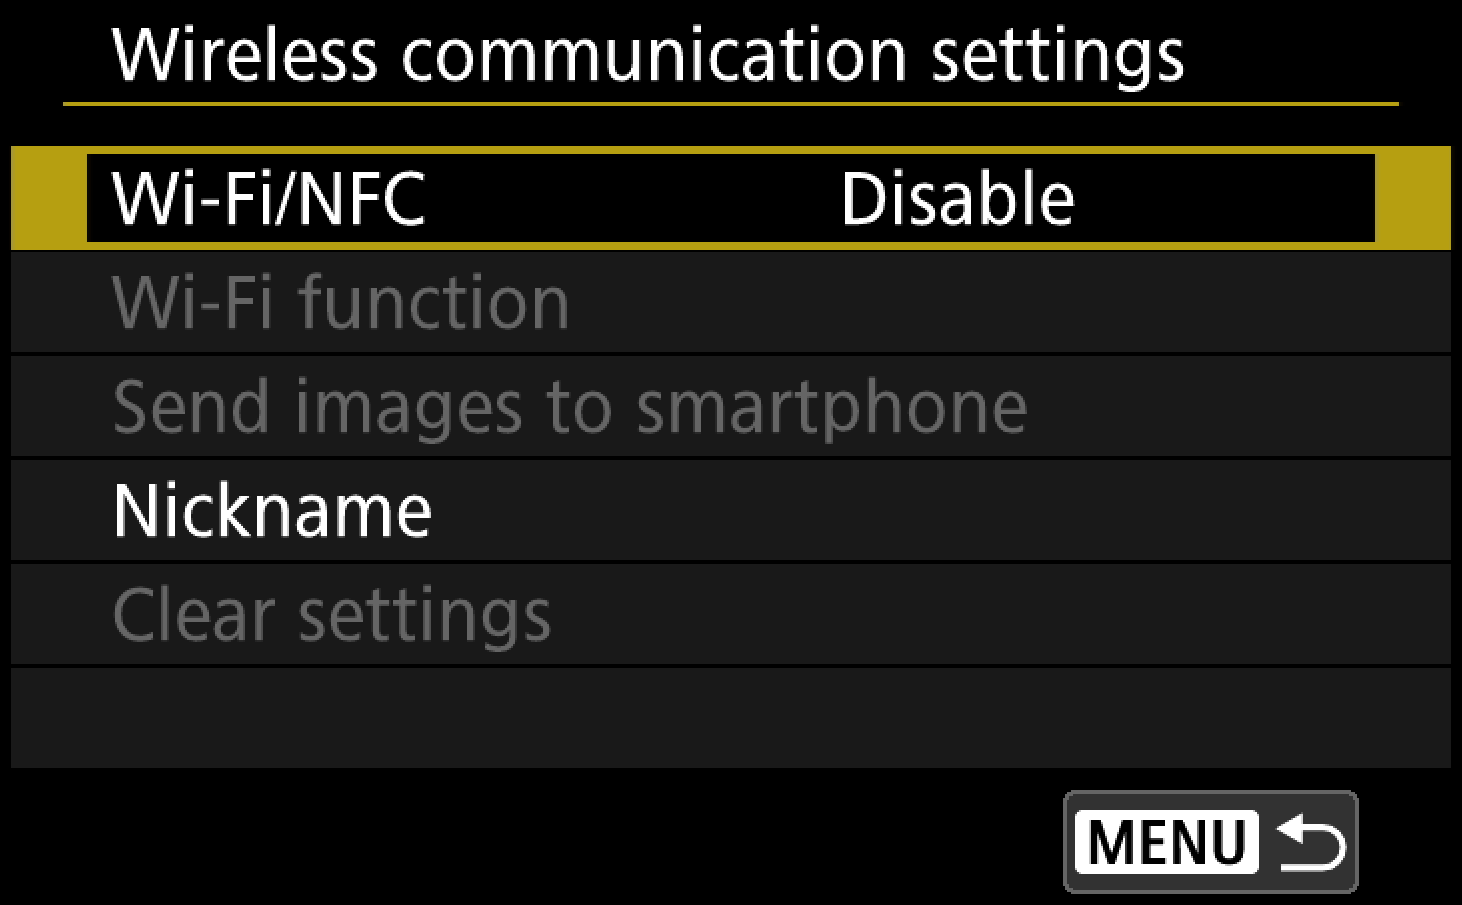
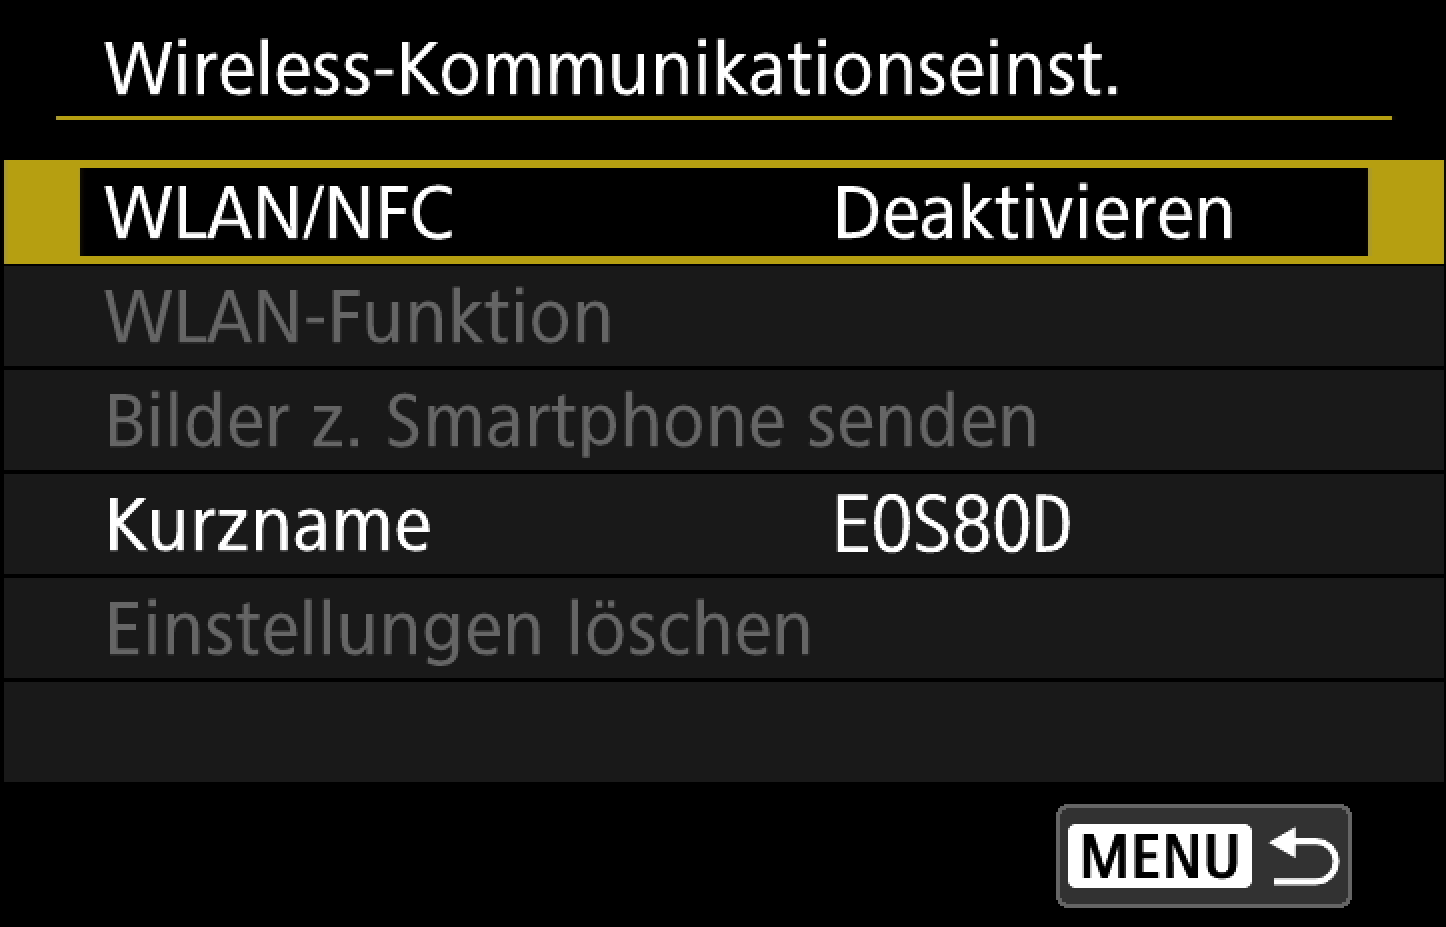
CBL-777: Add German camera screenshots to guides

Changed region(s): [[0.0, 0.0309, 1.0, 0.9901]]

diff --git a/de.lproj/HelpCentre/ConnectionGuides/SonyGuide/index.html b/de.lproj/HelpCentre/ConnectionGuides/SonyGuide/index.html
@@ -10,14 +10,14 @@
 <body>
 <div class="figure-box"><b>Wichtig:</b> Damit Cascable sich mit Ihrer WLAN-fähigen Sony-Kamera verbinden kann, soll auf der Kamera die <br><br>
 <b><img class="retina" src="sony-smart-remote-96.png" alt="Smart Remote"><br>
-Smart Remote Control</b> <br><br>
+Smart-Fernbedienung</b> <br><br>
 App installiert sein.</div>
-<p>Um die <em>Smart Remote Control</em> App auf Ihre Kamera zu installieren und eine Verbindung zu Cascable herzustellen müssen Sie noch einige Schritte durchführen, wie in der nachfolgenden Anleitung beschrieben.</p>
+<p>Um die <em>Smart-Fernbedienung</em> App auf Ihre Kamera zu installieren und eine Verbindung zu Cascable herzustellen müssen Sie noch einige Schritte durchführen, wie in der nachfolgenden Anleitung beschrieben.</p>
 <h3>Bevor wir loslegen</h3>
 <ol>
 	<li>Prüfen Sie, ob Ihre Kamera <a href="#" onclick='showPageWithIdentifier("se.cascable.client.help.supported-cameras");'>von Cascable unterstützt wird</a>.</li>
 	<li>Prüfen Sie, ob die Firmware-Version Ihrer Kamera aktuell ist.</li>
-	<li>Prüfen Sie, ob die <em>Smart Remote Control</em> App auf Ihrer Kamera installiert ist und aktualisieren Sie diese bei Bedarf.</li>
+	<li>Prüfen Sie, ob die <em>Smart-Fernbedienung</em> App auf Ihrer Kamera installiert ist und aktualisieren Sie diese bei Bedarf.</li>
 	<li>Prüfen Sie, ob Sie die neueste Version von Cascable haben.</li>
 </ol>
 
@@ -30,39 +30,39 @@ App installiert sein.</div>
  
 <hr>
 
-<h3>Smart Remote Control installieren</h3>
+<h3>Smart-Fernbedienung installieren</h3>
 <p><b>Hinweis:</b> <em>Um PlayMemories Camera Apps herunterzuladen, benötigen Sie ein Benutzerkonto bei Sony.</em></p>
-<p>Damit Cascable Daten mit Ihrer Kamera austauschen kann, müssen Sie Sony <em>Smart Remote Control</em> App auf die Kamera installieren.</p>
+<p>Damit Cascable Daten mit Ihrer Kamera austauschen kann, müssen Sie Sony <em>Smart-Fernbedienung</em> App auf die Kamera installieren.</p>
 <ol>
-	<li>Drücken Sie <b>Menu</b> und wechseln Sie zu <b><img class="retina" src="../../common/themed-images/light/sony-apps.png" alt="Anwendungen">Anwendungen</b> > <b> Liste der Anwendungen</b> > <b>PlayMemories Camera-Anwendungen</b>.</li>
+	<li>Drücken Sie <b>Menu</b> und wechseln Sie zu <b><img class="retina" src="../../common/themed-images/light/sony-apps.png" alt="Applikationen">Applikationen</b> > <b>Applikationsliste</b> > <b>PlayMemories Camera Apps</b>.</li>
 
-	<p class="center"> <img class="retina" src="sony-applist.png" alt="Programmliste" style="max-width: 90%;"></p>
+	<p class="center"> <img class="retina" src="sony-applist.png" alt="Applikationsliste" style="max-width: 90%;"></p>
 	<p class="center"> <img class="retina" src="sony-playmemories.png" alt="Play Memories Camera Apps" style="max-width: 90%;"></p>
 
 	<li>Ihre Kamera wird nach einem WLAN-Netzwerk suchen. Besteht noch keine Verbindung, so werden Sie gebeten, sich mit einem drahtlosen Zugangspunkt zu verbinden.</li>
-	<li>Wenn sich <em>PlayMemories Camera Apps</em> öffnet, wählen und installieren Sie die <b>Smart Remote Control</b> App.</li>
+	<li>Wenn sich <em>PlayMemories Camera Apps</em> öffnet, wählen und installieren Sie die <b>Smart-Fernbedienung</b> App.</li>
 </ol>
 
 <hr>
 
-<h3>Smart Remote Control-Version prüfen</h3>
-<p>Falls <em>Smart Remote Control</em> bereits auf Ihrer Kamera installiert ist, prüfen Sie, ob sie ggf. aktualisiert werden muss.<p>
+<h3>Smart-Fernbedienung-Version prüfen</h3>
+<p>Falls <em>Smart-Fernbedienung</em> bereits auf Ihrer Kamera installiert ist, prüfen Sie, ob sie ggf. aktualisiert werden muss.<p>
 <ol>
-	<li>Drücken Sie <b>Menu</b> und wechseln Sie zu <b><img class="retina" src="../../common/themed-images/light/sony-apps.png" alt="Anwendungen">Anwendungen</b> > <b> Liste der Anwendungen</b> > <b>PlayMemories Camera-Anwendungen</b>.</li>
+	<li>Drücken Sie <b>Menu</b> und wechseln Sie zu <b><img class="retina" src="../../common/themed-images/light/sony-apps.png" alt="Applikationen">Applikationen</b> > <b>Applikationsliste</b> > <b>PlayMemories Camera Apps</b>.</li>
 	<li>Ihre Kamera wird nach einem WLAN-Netzwerk suchen. Besteht noch keine Verbindung, so werden Sie gebeten, sich mit einem drahtlosen Zugangspunkt zu verbinden.</li>
-	<li>Wenn sich <em>PlayMemories Camera Apps</em> öffnet, wechseln Sie in den Reiter <b>My APP</b>, wählen Sie die <b>Smart Remote Control</b> App und prüfen Sie, ob die installierte Version aktuell ist.</li>
+	<li>Wenn sich <em>PlayMemories Camera Apps</em> öffnet, wechseln Sie in den Reiter <b>My APP</b>, wählen Sie die <b>Smart-Fernbedienung</b> App und prüfen Sie, ob die installierte Version aktuell ist.</li>
 </ol>
 
 <hr>
 
 <h3>Cascable mit Ihrer Kamera verbinden</h3>
 <ol>
-	<li>Drücken Sie <b>Menu</b> und wechseln Sie zu <b><img class="retina" src="../../common/themed-images/light/sony-apps.png" alt="Anwendungen">Anwendungen</b> > <b> Liste der Anwendungen</b> > <b><img class="retina" src="sony-smart-remote.png" alt="Smart Remote Control">Smart Remote Control</b>.</li>
-	<p class="center"> <img class="retina" src="sony-applist.png" alt="Programmliste" style="max-width: 90%;"></p>
-	<p class="center"> <img class="retina" src="sony-smartremote.png" alt="Smart Remote Control" style="max-width: 90%;"></p>
-	<li>Wenn <em>Smart Remote Control</em> startet, drücken Sie <b><img class="retina" src="../../common/themed-images/light/sony-delete.png" alt="Löschen">Delete</b> um eine <em>passwortgeschützte Verbindung herzustellen</em>.</li>
+	<li>Drücken Sie <b>Menu</b> und wechseln Sie zu <b><img class="retina" src="../../common/themed-images/light/sony-apps.png" alt="Applikationen">Applikationen</b> > <b>Applikationsliste</b> > <b><img class="retina" src="sony-smart-remote.png" alt="Smart-Fernbedienung">Smart-Fernbedienung</b>.</li>
+	<p class="center"> <img class="retina" src="sony-applist.png" alt="Applikationsliste" style="max-width: 90%;"></p>
+	<p class="center"> <img class="retina" src="sony-smartremote.png" alt="Smart-Fernbedienung" style="max-width: 90%;"></p>
+	<li>Wenn <em>Smart-Fernbedienung</em> startet, drücken Sie <b><img class="retina" src="../../common/themed-images/light/sony-delete.png" alt="Löschen">Delete</b> um eine <em>Per Passwort verbinden</em>.</li>
 	<li>Öffnen Sie auf Ihrem iOS-Gerät <b>Einstellungen</b> > <b>WLAN</b>, wählen Sie Ihr WLAN-Netzwerk aus und geben Sie das Passwort ein, das auf dem Bildschirm Ihrer Kamera angezeigt wird.</li>
-	<li>Auf dem Kameradisplay wird die Meldung <em>Verbinden …</em> angezeigt.</li>
+	<li>Auf dem Kameradisplay wird die Meldung <em>Verbindet…</em> angezeigt.</li>
 	<p class="center"> <img class="retina" src="sony-connecting.png" alt="Verbindungsdialog" style="max-width: 90%;"></p>
 	<li>Starten Sie <b>Cascable</b> auf Ihrem iOS-Gerät. Die App wird Ihre Kamera automatisch erkennen und eine Verbindung herstellen.</li>
 </ol>

diff --git a/de.lproj/HelpCentre/ConnectionGuides/FujiGuide/index.html b/de.lproj/HelpCentre/ConnectionGuides/FujiGuide/index.html
@@ -23,9 +23,9 @@
 <p>Standardmäßig passen Fujifilm Kameras die Größe Ihrer Fotos auf 3 Megapixel an, bevor sie per WLAN übertragen werden. Für ein bestmögliches Ergebnis mit Cascable empfehlen wir Ihnen, diese Option zu deaktivieren.</p>
 
 <ol>
-    <li>Drücken Sie dazu auf Ihrer Kamera auf <b>MENU</b> und gehen Sie in das <b>SETUP</b> und wählen Sie <b>VERBINDUNG-SEINSTELLUNG</b>.</li>
+    <li>Drücken Sie dazu auf Ihrer Kamera auf <b>MENU</b> und gehen Sie in das <b>EINRICHTUNG</b> und wählen Sie <b>VERBINDUNGS-EINSTELLUNG</b>.</li>
     <p class="center"> <img class="retina" src="fuji-setup-connectionsettings.png" alt="Verbindungseinstellungen" style="max-width: 90%;"></p>
-    <li>Wählen Sie <b>DRAHTLOS-KOMM.</b> und ändern Sie <b>VERKLEINERN</b> auf <b>AUS</b>.</li>
+    <li>Wählen Sie <b>FUNKEINSTELLUNGEN</b> und ändern Sie <b>VERKLEINERN</b> auf <b>AUS</b>.</li>
     <p class="center"> <img class="retina" src="fuji-setup-wirelesssettings.png" alt="Wireless-Einstellungen" style="max-width: 90%;"></p>
     <p class="center"> <img class="retina" src="fuji-wifi-imageresize.png" alt="Verkleinern" style="max-width: 90%;"></p>
 </ol>
@@ -43,13 +43,13 @@
 <h3>Cascable mit Ihrer WLAN-Kamera verbinden</h3>
 
 <ol>
-    <li>Drücken Sie die <b>Menu</b>-Taste auf Ihrer Kamera und wechseln Sie zu <b>AUFNAHME-EINSTELLUNG</b>.</li>
+    <li>Drücken Sie die <b>Menu</b>-Taste auf Ihrer Kamera und wechseln Sie zu <b>AUFNAHME-MENÜ</b>.</li>
 
-    <li>Im <b>AUFNAHME-EINSTELLUNG</b> Menü gehen Sie auf <b>DRAHTLOS-KOMM.</b> und drücken auf <b>OK</b>.</li>
+    <li>Im <b>AUFNAHME-MENÜ</b> Menü gehen Sie auf <b>DRAHTLOS-KOMM.</b> und drücken auf <b>OK</b>.</li>
 
     <li><b>Hinweis:</b> Viele Fujifilm Kamera haben eine eigene WiFi-Taste oder bieten die Konfiguration einer Taste zum Aktivieren von WiFi an. Schauen Sie im Handbuch Ihrer Kamera nach.</li>
 
-    <li>Die WiFi-Funktion wird nun aktiviert. Prüfen Sie nun, ob Ihr iOS-Gerät und Ihre Kamera mit demselben WLAN-Netzwerk verbunden sind, und starten Sie Cascable.</li>
+    <li>Die WLAN-Funktion wird nun aktiviert. Prüfen Sie nun, ob Ihr iOS-Gerät und Ihre Kamera mit demselben WLAN-Netzwerk verbunden sind, und starten Sie Cascable.</li>
 
     <li>Wenn in den Einstellungen von Cascable die Option „Automatisch verbinden“ gewählt ist, wird die App Ihre Kamera nach wenigen Sekunden automatisch entdecken und sich damit verbinden. Anderenfalls tippen Sie auf das <strong>Verbindungssymbol</strong> oben auf dem Display und dann auf <strong>Verbinden</strong> neben den Namen Ihrer Kamera.</li>
 

diff --git a/de.lproj/HelpCentre/ConnectionGuides/OlympusGuide/index.html b/de.lproj/HelpCentre/ConnectionGuides/OlympusGuide/index.html
@@ -21,12 +21,12 @@
 <h3>Cascable mit Ihrer WLAN-Kamera verbinden</h3>
 
 <ol>
-    <li>Drücken Sie die <b>Menu</b>-Taste auf Ihrer Kamera und wechseln Sie im <b><img class="retina" src="../../common/themed-images/light/olympus-setup.png" alt="Einstellungsmenü">Einstellungsmenü</b> zu <b>Wi-Fi-Einstellungen</b>.<br> Bei einigen Kameramodellen ist diese Einstellung eventuell nicht verfügbar. Stattdessen finden Sie die WiFi-Einstellungen unter <b>Kamera Menü 1 > Wi-Fi Start</b>. Wählen Sie in diesem Fall <b>Wi-Fi Start</b> und folgen Sie den Anweisungen ab Schritt 5.</li>
+    <li>Drücken Sie die <b>Menu</b>-Taste auf Ihrer Kamera und wechseln Sie im <b><img class="retina" src="../../common/themed-images/light/olympus-setup.png" alt="Einstellungsmenü">Einstellungsmenü</b> zu <b>Wi-Fi Einstellungen</b>.<br> Bei einigen Kameramodellen ist diese Einstellung eventuell nicht verfügbar. Stattdessen finden Sie die WiFi-Einstellungen unter <b>Kameramenü 1 > Wi-Fi Starten</b>. Wählen Sie in diesem Fall <b>Wi-Fi Starten</b> und folgen Sie den Anweisungen ab Schritt 5.</li>
     <p class="center"> <img class="retina" src="olympus-wifisettings.png" alt="Wi-Fi-Einstellungen" style="max-width: 90%;"></p>
-    <li>Prüfen Sie, ob in den <b>Verbindungseinstellungen</b> die Option <b>Private Verbindung</b> gewählt ist.</li>
+    <li>Prüfen Sie, ob in den <b>Wi-Fi Verbindungseinstellungen</b> die Option <b>Privat </b> gewählt ist.</li>
     <p class="center"> <img class="retina" src="olympus-wifiprivate.png" alt="Wi-Fi Private Einstellung" style="max-width: 90%;"></p>
     <li>Drücken Sie <b>Menu</b>, um zurück zum Liveview-Modus zu gelangen.</b></li>
-    <li>Tippen Sie auf dem Touchscreen auf <b>Wi-Fi</b>. Es erscheint für einige Sekunden die Meldung <em>Starte Wi-Fi ...</em>. Darauffolgend werden die Verbindungsdetails angezeigt.</li>
+    <li>Tippen Sie auf dem Touchscreen auf <b>Wi-Fi</b>. Es erscheint für einige Sekunden die Meldung <em>Wi-Fi wird gestartet</em>. Darauffolgend werden die Verbindungsdetails angezeigt.</li>
     <li>Öffnen Sie auf Ihrem iOS-Gerät <b>Einstellungen</b> > <b>WLAN</b>, wählen Sie Ihr WLAN-Netzwerk aus und geben Sie das Passwort ein, das auf dem Bildschirm Ihrer Kamera angezeigt wird.</li>
     <li>Starten Sie <b>Cascable</b> auf Ihrem iOS-Gerät. Die App wird Ihre Kamera automatisch erkennen und eine Verbindung herstellen.</li>  
 </ol>

diff --git a/de.lproj/HelpCentre/ConnectionGuides/CanonGuide/index.html b/de.lproj/HelpCentre/ConnectionGuides/CanonGuide/index.html
@@ -22,13 +22,13 @@
 <h3>Cascable mit Ihrer WLAN-Kamera verbinden</h3>
 
 <ol>
-    <li>Drücken Sie die <b>Menu</b>-Taste auf Ihrer Kamera und wechseln Sie im <b><img class="retina" src="../../common/themed-images/light/olympus-setup.png" alt="Einstellungsmenü">Einstellungsmenü</b> zu <b>Wi-Fi-Einstellungen</b>.<br> </li>
+    <li>Drücken Sie die <b>Menu</b>-Taste auf Ihrer Kamera und wechseln Sie im <b><img class="retina" src="../../common/themed-images/light/olympus-setup.png" alt="Einstellungsmenü">Einstellungsmenü</b> zu <b>Wireless-Kommunikationseinstellungen</b>.<br> </li>
     <p class="center"> <img class="retina" src="canon-wifisettings.png" alt="Wi-Fi-Einstellungen" style="max-width: 90%;"></p>
-    <li>Achten Sie darauf, dass die <b>Wi-Fi/NFC</b> Einstellung <b>aktiviert</b> ist. NFC muss hier nicht aktiviert sein, nur das WLAN für Cascable.</li>
+    <li>Achten Sie darauf, dass die <b>WLAN/NFC</b> Einstellung <b>aktiviert</b> ist. NFC muss hier nicht aktiviert sein, nur das WLAN für Cascable.</li>
     <p class="center"> <img class="retina" src="canon-wifisettings2.png" alt="Wi-Fi Private Einstellung" style="max-width: 90%;"></p>
 	<p class="center"> <img class="retina" src="canon-wifion.png" alt="Wi-Fi Private Einstellung" style="max-width: 90%;"></p>
-	<li>Folgen Sie den Anweisungen bei der Einrichtung eines <b>Namens</b> für Ihr Gerät.</li>
-	<li>Wählen Sie nun die nächste Option in den <b>WiFi-Einstellungen</b> mit Namen <b>Wi-Fi Funktion</b>.</li>
+	<li>Folgen Sie den Anweisungen bei der Einrichtung eines <b>Kurzname</b> für Ihr Gerät.</li>
+	<li>Wählen Sie nun die nächste Option in den <b>Wireless-Kommunikationseinstellungen.</b> mit Namen <b>WLAN-Funktion</b>.</li>
 	<p class="center"> <img class="retina" src="canon-wififunction.png" alt="Wi-Fi Private Einstellung" style="max-width: 90%;"></p>
 	<li>Um Cascable für iOS nutzen zu können, wählen Sie die Option <b>Mit Smartphone verbinden</b>.</li>
 	<p class="center"> <img class="retina" src="canon-wifiphoneconnection.png" alt="Wi-Fi Private Einstellung" style="max-width: 90%;"></p>

diff --git a/de.lproj/HelpCentre/ConnectionGuides/PanasonicGuide/index.html b/de.lproj/HelpCentre/ConnectionGuides/PanasonicGuide/index.html
@@ -21,7 +21,7 @@
 <h3>Cascable mit Ihrer WLAN-Kamera verbinden</h3>
 
 <ol>
-    <li>Drücken Sie die <b>Menu</b>-Taste auf Ihrer Kamera und wechseln Sie zu <b>Wi-Fi</b> im <b><img class="retina" src="../../common/themed-images/light/olympus-setup.png" alt="Setup-Menü"></b>.</li>
+    <li>Drücken Sie die <b>Menu</b>-Taste auf Ihrer Kamera und wechseln Sie zu <b>Wi-Fi</b> im <b><img class="retina" src="../../common/themed-images/light/olympus-setup.png" alt="Setup-Menü">Setup-Menü</b>.</li>
     <p class="center"> <img class="retina" src="panasonic-setup-wifi.png" alt="Wi-Fi-Einstellungen" style="max-width: 90%;"></p>
     <li>Wählen Sie die Option <b>Wi-Fi-Funktion</b>.</li>
     <p class="center"> <img class="retina" src="panasonic-wifi-wififunction.png " alt="Wi-Fi-Funktion" style="max-width: 90%;"></p>
@@ -38,8 +38,8 @@
     <br>
     <p><em>Hinweis</em>
     <br>
-    Wenn Sie das WLAN mit einem iOS-Gerät bereits früher schon verwendet haben, wählen Sie <b>Ziel aus Verlauf wählen</b> aus dem Menü <b>Wi-Fi Funktion</b>.</p>
-    Wählen Sie einfach die Option <b>Direkt</b>. Während die Kamera <em>Verbinden …</em> anzeigt, fahren Sie oben mit Schritt 5 fort. Sie sollten das Kennwort nicht erneut eingeben müssen.</p>
+    Wenn Sie das WLAN mit einem iOS-Gerät bereits früher schon verwendet haben, wählen Sie <b>Wählen Sie einen Zielort aus dem Verlauf</b> aus dem Menü <b>Wi-Fi Funktion</b>.</p>
+    Wählen Sie einfach die Option <b>Direkt</b>. Während die Kamera <em>Verbindet…</em> anzeigt, fahren Sie oben mit Schritt 5 fort. Sie sollten das Kennwort nicht erneut eingeben müssen.</p>
     <p class="center"> <img class="retina" src="panasonic-wifi-selecthistory.png" alt="Ziel aus Verlauf wählen" style="max-width: 90%;"></p>
     <p class="center"> <img class="retina" src="panasonic-wifi-directconnection.png" alt="Direct Image App" style="max-width: 90%;"></p>
     <p class="center"> <img class="retina" src="panasonic-wifi-connecting.png" alt="Verbinden" style="max-width: 90%;"></p>
